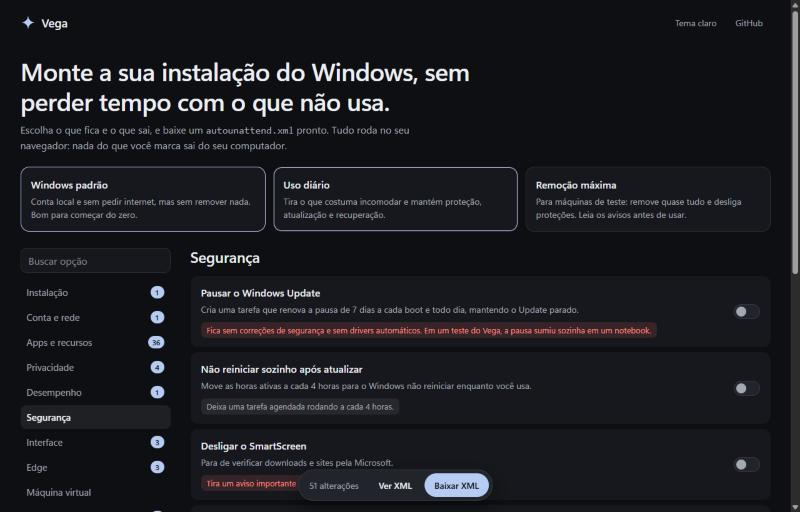
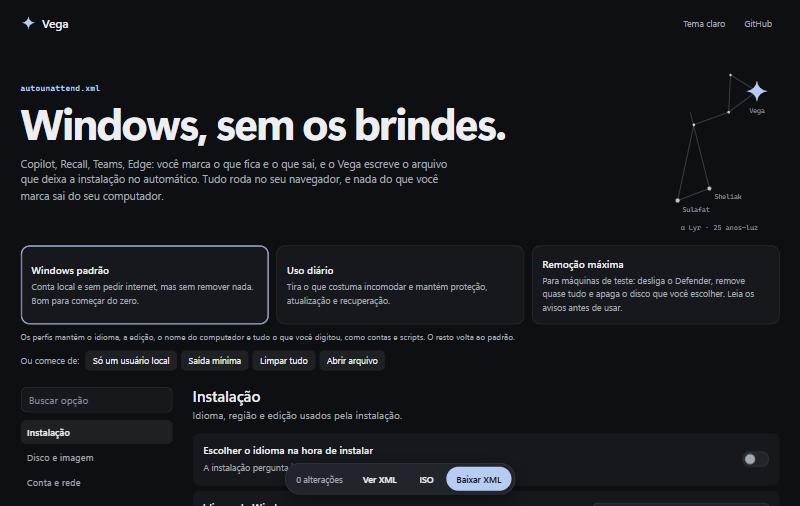
Dá personalidade ao topo do site
Troca o título genérico por "Windows, sem os brindes.", cita no subtítulo
apps que a lista remove de verdade e desenha a constelação de Lira, com as
posições reais das estrelas, ao lado do título. No celular, a constelação
some. README com o novo print e a nova abertura.

diff --git a/src/Vega.Web/wwwroot/css/app.css b/src/Vega.Web/wwwroot/css/app.css
@@ -43,8 +43,17 @@ h1, h2, h3 { line-height: 1.2; font-weight: 600; }
 
 /* Apresentação e perfis */
 .intro { max-width: 1240px; margin: 0 auto; padding: 18px 20px 26px; }
-.intro h1 { font-size: clamp(28px, 4.5vw, 40px); letter-spacing: -.02em; max-width: 20em; }
-.intro > p { color: var(--muted); margin-top: 10px; max-width: 44em; }
+.intro-topo { display: grid; grid-template-columns: minmax(0, 1fr) auto; align-items: center; gap: 32px; }
+.intro-arquivo { font: 500 13px/1 "Cascadia Code", Consolas, monospace; color: var(--accent); letter-spacing: .02em; }
+.intro h1 { margin-top: 14px; font-family: "Segoe UI Variable Display", "Segoe UI", system-ui, -apple-system, sans-serif; font-size: clamp(38px, 7vw, 68px); font-weight: 700; line-height: 1.02; letter-spacing: -.035em; }
+.intro-sub { color: var(--muted); margin-top: 16px; max-width: 40em; font-size: 17px; }
+.lira { margin: 0; color: var(--ink); text-align: center; }
+.lira svg { display: block; width: 190px; height: auto; overflow: visible; }
+.lira circle { fill: currentColor; opacity: .8; }
+.lira-linhas path { fill: none; stroke: var(--faint); stroke-opacity: .55; stroke-width: 1.1; stroke-linecap: round; stroke-linejoin: round; }
+.lira-vega { fill: var(--accent); }
+.lira text { font: 11px "Cascadia Code", Consolas, monospace; fill: var(--faint); }
+.lira figcaption { margin-top: 6px; font: 11px "Cascadia Code", Consolas, monospace; color: var(--faint); }
 .perfis { display: grid; grid-template-columns: repeat(3, minmax(0, 1fr)); gap: 12px; margin-top: 22px; }
 .perfil { text-align: left; padding: 16px; border-radius: 14px; background: var(--alt); border: 1px solid var(--line); transition: border-color .15s, background-color .15s; }
 .perfil:hover { border-color: var(--accent); }
@@ -162,6 +171,8 @@ pre { margin: 0; padding: 16px 18px; overflow: auto; font: 13px/1.5 "Cascadia Co
 #blazor-error-ui .reload { margin-left: 8px; }
 
 @media (max-width: 860px) {
+  .intro-topo { grid-template-columns: minmax(0, 1fr); }
+  .lira { display: none; }
   .perfis { grid-template-columns: 1fr; }
   .corpo { grid-template-columns: minmax(0, 1fr); gap: 18px; }
   .lateral { position: static; }

diff --git a/README.md b/README.md
@@ -2,14 +2,14 @@
 
 # 💫 Vega
 
-Monte a sua instalação do Windows sem perder tempo com o que não usa. Todas as opções **organizadas**, com o custo de cada uma, e um `autounattend.xml` pronto para baixar. Tudo roda no seu navegador.
+**Windows, sem os brindes.** Marque o que fica e o que sai, com todas as opções **organizadas** e o custo de cada uma, e baixe um `autounattend.xml` que deixa a instalação no automático. Tudo roda no seu navegador.
 
 ![C#](https://img.shields.io/badge/C%23-239120?style=for-the-badge)
 ![.NET 10](https://img.shields.io/badge/.NET_10-512BD4?style=for-the-badge&logo=dotnet&logoColor=white)
 ![Blazor](https://img.shields.io/badge/Blazor_WebAssembly-512BD4?style=for-the-badge&logo=blazor&logoColor=white)
 ![GitHub Pages](https://img.shields.io/badge/GitHub_Pages-222222?style=for-the-badge&logo=githubpages&logoColor=white)
 
-<img src="docs/screenshot.jpg" alt="Vega no tema grafite, com os três perfis prontos, as categorias na lateral e as opções de segurança, cada uma com o seu aviso" width="760">
+<img src="docs/screenshot.jpg" alt="Vega no tema grafite: o título Windows, sem os brindes, a constelação de Lira ao lado, os três perfis prontos e as categorias na lateral" width="760">
 <br><br>
 
 [![Abrir o site](https://img.shields.io/badge/▶_Abrir_o_site-3F5F8F?style=for-the-badge)](https://erickfuzer.github.io/Vega/)
